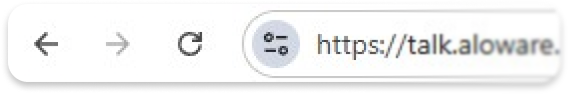
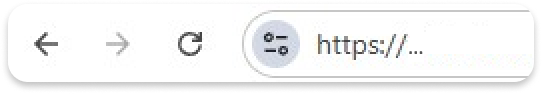
feat(wat-136): microphone permission whitelabel text and image fix

diff --git a/src/components/dialer/microphone-permission-modal.vue b/src/components/dialer/microphone-permission-modal.vue
@@ -1,6 +1,6 @@
 <template>
   <q-dialog
-    v-model="showModal"
+    v-model="isOpen"
     persistent
     :maximized="false"
     :full-width="false"
@@ -8,7 +8,7 @@
   >
     <q-card class="microphone-permission-modal">
       <q-card-section class="text-center">
-        <div class="text-h6 font-weight-bold">Giving Microphone Access to Aloware Talk</div>
+        <div class="text-h6 font-weight-bold">Giving Microphone Access to {{ whiteLabelName }}</div>
       </q-card-section>
 
       <q-card-section class="text-center">
@@ -19,7 +19,7 @@
           </div>
           <img src="/images/mic-step-2.png" alt="Step 2: Allow microphone access" class="step-2-image mw-100" />
         </div>
-        <p>In order to make or receive calls you need to make sure that you have granted microphone access to Aloware Talk.</p>
+        <p>In order to make or receive calls you need to make sure that you have granted microphone access to {{ whiteLabelName }}.</p>
         <p>To do so please <strong>click the icon in your browser's address bar and toggle on the microphone access.</strong></p>
       </q-card-section>
 
@@ -42,22 +42,25 @@
 </template>
 
 <script>
+import { whiteLabelMixin } from 'src/plugins/mixins'
+
 export default {
   name: 'MicrophonePermissionModal',
+  mixins: [whiteLabelMixin],
 
   data () {
     return {
-      showModal: false
+      isOpen: false
     }
   },
 
   methods: {
-    show (message = null) {
-      this.showModal = true
+    show () {
+      this.isOpen = true
     },
 
     closeModal () {
-      this.showModal = false
+      this.isOpen = false
     },
 
     refreshPage () {
@@ -78,7 +81,7 @@ export default {
   }
 
   .step-2-image {
-    max-width: 360px;
+    width: 330px;
   }
 }
 </style>
